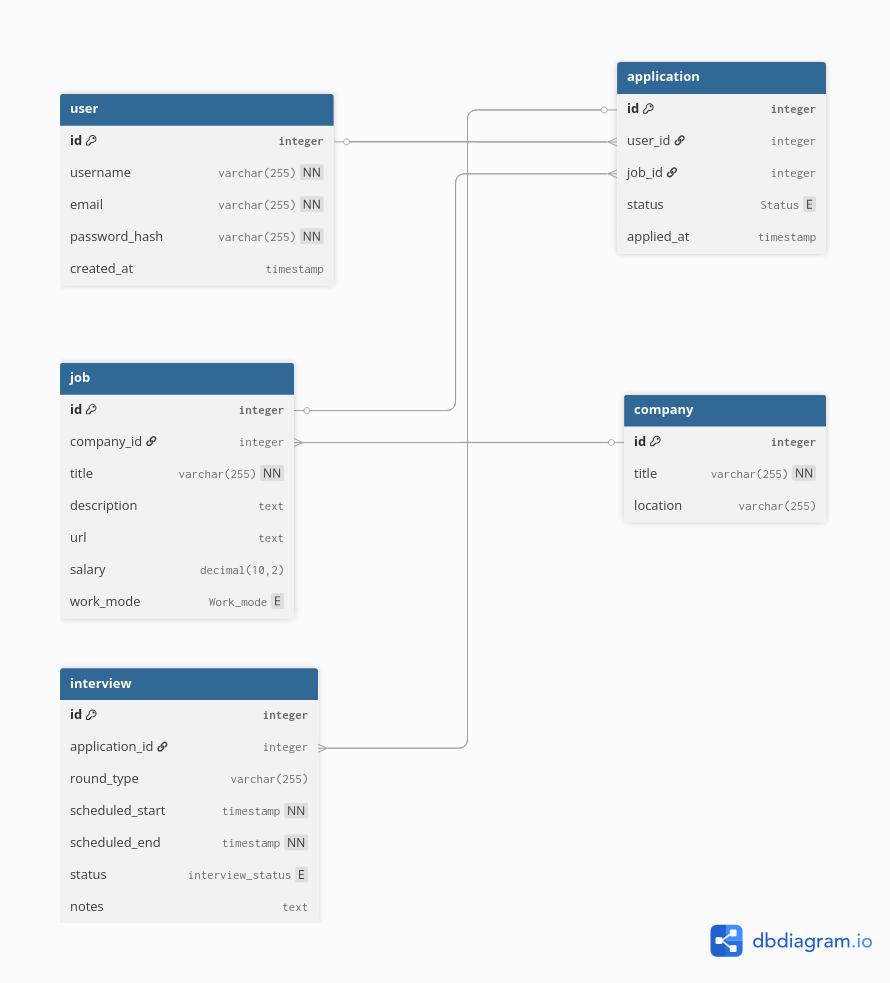
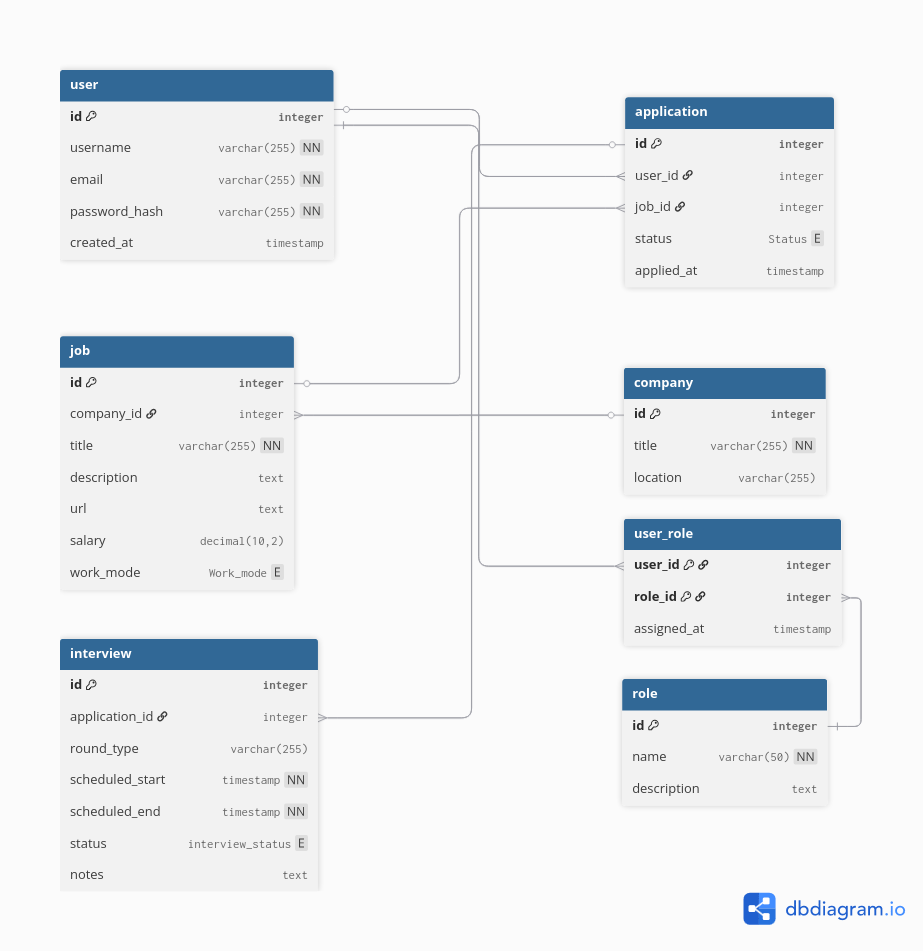
fix: Small database structure change

diff --git a/backend/migrations/20260306000007-create-user-roles.js b/backend/migrations/20260306000007-create-user-roles.js
@@ -1,0 +1,38 @@
+'use strict';
+
+module.exports = {
+  async up(queryInterface, Sequelize) {
+    await queryInterface.createTable('user_roles', {
+      user_id: {
+        type: Sequelize.INTEGER,
+        allowNull: false,
+        primaryKey: true,
+        references: {
+          model: 'users',
+          key: 'id'
+        },
+        onUpdate: 'CASCADE',
+        onDelete: 'CASCADE'
+      },
+      role_id: {
+        type: Sequelize.INTEGER,
+        allowNull: false,
+        primaryKey: true,
+        references: {
+          model: 'roles',
+          key: 'id'
+        },
+        onUpdate: 'CASCADE',
+        onDelete: 'CASCADE'
+      },
+      assigned_at: {
+        type: Sequelize.DATE,
+        defaultValue: Sequelize.fn('now')
+      }
+    });
+  },
+
+  async down(queryInterface) {
+    await queryInterface.dropTable('user_roles');
+  }
+};

diff --git a/backend/models/userRole.js b/backend/models/userRole.js
@@ -1,0 +1,35 @@
+'use strict';
+const { Model } = require('sequelize');
+
+module.exports = (sequelize, DataTypes) => {
+  class UserRole extends Model {
+    static associate(models) {
+      UserRole.belongsTo(models.User, { foreignKey: 'user_id' });
+      UserRole.belongsTo(models.Role, { foreignKey: 'role_id' });
+    }
+  }
+
+  UserRole.init({
+    user_id: {
+      type: DataTypes.INTEGER,
+      primaryKey: true,
+      references: { model: 'users', key: 'id' }
+    },
+    role_id: {
+      type: DataTypes.INTEGER,
+      primaryKey: true,
+      references: { model: 'roles', key: 'id' }
+    },
+    assigned_at: {
+      type: DataTypes.DATE,
+      defaultValue: DataTypes.NOW
+    }
+  }, {
+    sequelize,
+    modelName: 'UserRole',
+    tableName: 'user_roles',
+    timestamps: false
+  });
+
+  return UserRole;
+};

diff --git a/backend/models/role.js b/backend/models/role.js
@@ -1,0 +1,32 @@
+'use strict';
+const { Model } = require('sequelize');
+
+module.exports = (sequelize, DataTypes) => {
+  class Role extends Model {
+    static associate(models) {
+      Role.belongsToMany(models.User, {
+        through: models.UserRole,
+        foreignKey: 'role_id',
+        otherKey: 'user_id'
+      });
+    }
+  }
+
+  Role.init({
+    name: {
+      type: DataTypes.STRING(50),
+      allowNull: false,
+      unique: true
+    },
+    description: {
+      type: DataTypes.TEXT
+    }
+  }, {
+    sequelize,
+    modelName: 'Role',
+    tableName: 'roles',
+    timestamps: false
+  });
+
+  return Role;
+};

diff --git a/backend/migrations/20260306000006-create-roles.js b/backend/migrations/20260306000006-create-roles.js
@@ -1,0 +1,26 @@
+'use strict';
+
+module.exports = {
+  async up(queryInterface, Sequelize) {
+    await queryInterface.createTable('roles', {
+      id: {
+        allowNull: false,
+        autoIncrement: true,
+        primaryKey: true,
+        type: Sequelize.INTEGER
+      },
+      name: {
+        type: Sequelize.STRING(50),
+        allowNull: false,
+        unique: true
+      },
+      description: {
+        type: Sequelize.TEXT
+      }
+    });
+  },
+
+  async down(queryInterface) {
+    await queryInterface.dropTable('roles');
+  }
+};

diff --git a/backend/models/user.js b/backend/models/user.js
@@ -5,6 +5,11 @@ module.exports = (sequelize, DataTypes) => {
   class User extends Model {
     static associate(models) {
       User.hasMany(models.Application, { foreignKey: 'user_id' });
+      User.belongsToMany(models.Role, {
+        through: models.UserRole,
+        foreignKey: 'user_id',
+        otherKey: 'role_id'
+      });
     }
   }
 

diff --git a/README.md b/README.md
@@ -26,6 +26,20 @@ A full-stack web application to track and organize job applications. Keep all yo
 | password_hash | VARCHAR(255) | NOT NULL             |
 | created_at    | TIMESTAMP    | DEFAULT now()        |
 
+**Roles** — Available user roles (e.g. user, admin).
+| Column      | Type        | Constraints          |
+|-------------|-------------|----------------------|
+| id          | INTEGER     | PK, Auto Increment   |
+| name        | VARCHAR(50) | UNIQUE, NOT NULL     |
+| description | TEXT        |                      |
+
+**User Roles** — Maps users to their roles (many-to-many).
+| Column      | Type      | Constraints          |
+|-------------|-----------|----------------------|
+| user_id     | INTEGER   | PK, FK → users(id)   |
+| role_id     | INTEGER   | PK, FK → roles(id)   |
+| assigned_at | TIMESTAMP | DEFAULT now()        |
+
 **Companies** — Companies where jobs are listed.
 | Column   | Type         | Constraints          |
 |----------|--------------|----------------------|
@@ -67,11 +81,15 @@ A full-stack web application to track and organize job applications. Keep all yo
 ### Relationships
 
 ```
-User ──< Application >── Job ──> Company
-              │
-              └──< Interview
+User ──<< UserRole >>── Role
+  │
+  └──< Application >── Job ──> Company
+            │
+            └──< Interview
 ```
 
+- A **User** has many **Roles** (through UserRole)
+- A **Role** has many **Users** (through UserRole)
 - A **User** has many **Applications**
 - A **Job** belongs to a **Company**
 - An **Application** belongs to a **User** and a **Job**
